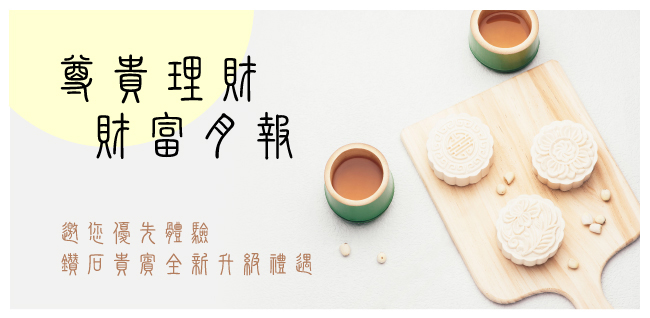
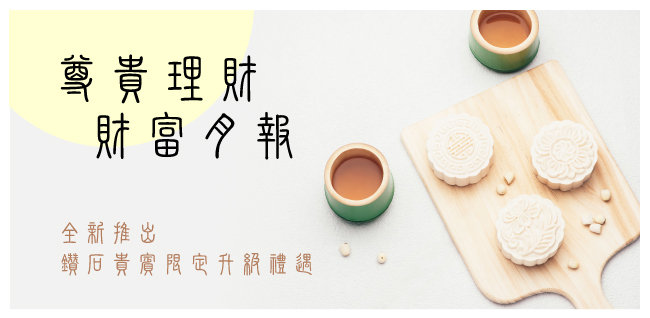
up

Changed region(s): [[0.0923, 0.6792, 0.3385, 0.7642], [0.2462, 0.7925, 0.3385, 0.8774]]

diff --git a/monthly-report-201709/index.html b/monthly-report-201709/index.html
@@ -151,7 +151,7 @@
 </table>
 
 <map name="Map">
-  <area shape="rect" coords="8,12,640,310" href="https://www.cathaybk.com.tw/cathaybk/vip/event/2017/201706_3/index.html" target="_blank" alt="邀您優先體驗 全新升級禮遇">
+  <area shape="rect" coords="8,12,640,310" href="https://www.cathaybk.com.tw/cathaybk/vip/event/2017/201706_3/index.html" target="_blank" alt="全新推出 鑽石貴賓限定升級禮遇">
 </map>
 
 <map name="Map2">
@@ -173,7 +173,7 @@
 <map name="Map5">
   <area shape="rect" coords="29,13,208,123" href="https://www.cathaybk.com.tw/cathaybk/fund/event/cathayfund/#promo" target="_blank" alt="幸福長跑">
   <area shape="rect" coords="235,13,414,124" href="https://www.cathaybk.com.tw/Cathaybk/personal/event/2017/201706_01/index.asp" target="_blank" alt="ETF">
-  <area shape="rect" coords="439,14,619,124" href="https://www.cathaybk.com.tw/cathaybk/personal-trust/service-love.asp" target="_blank">
+  <area shape="rect" coords="439,14,619,124" href="https://www.cathaybk.com.tw/cathaybk/personal-trust/service-love.asp" target="_blank" alt="子女信託 ">
 </map>
 </body>
 </html>
